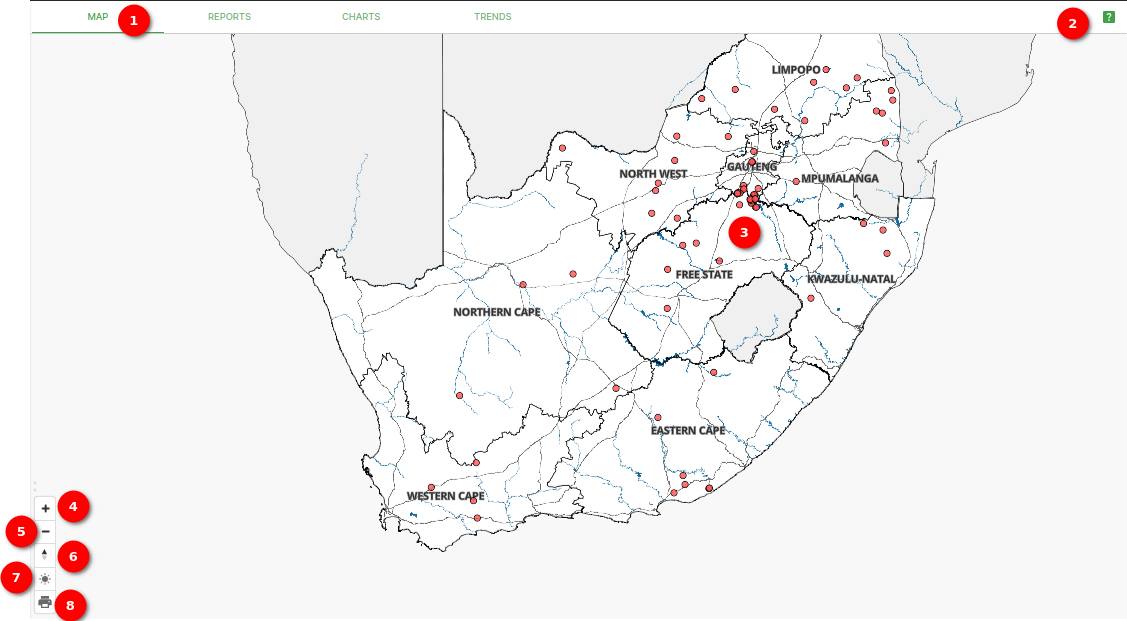
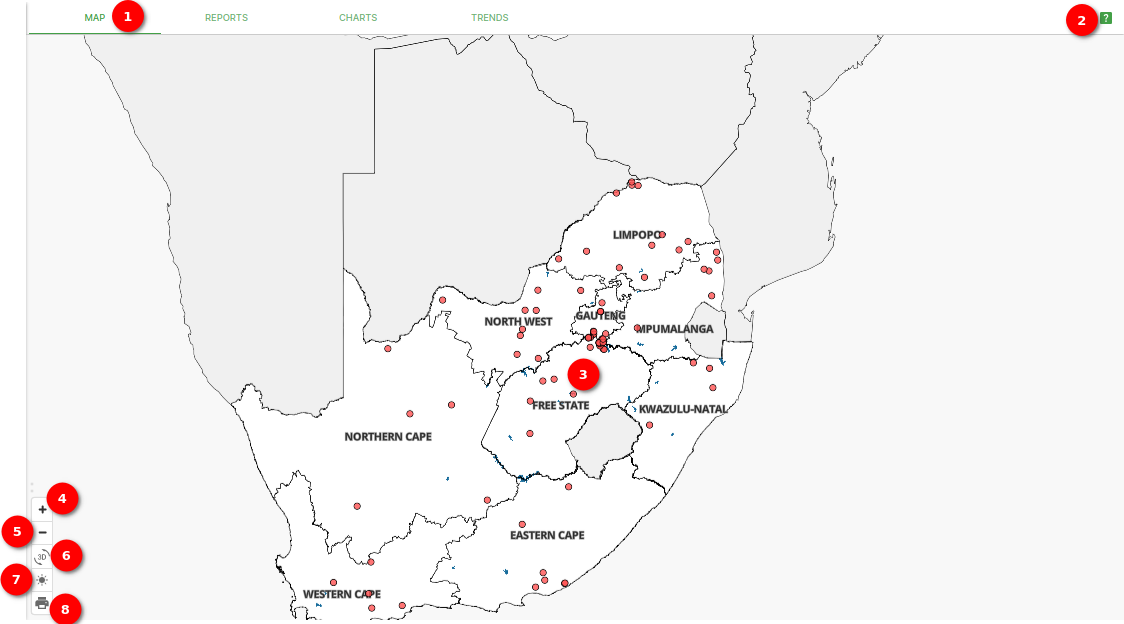
Update Map Documentation

diff --git a/docs/src/user/manual/explore/map.md b/docs/src/user/manual/explore/map.md
@@ -24,6 +24,7 @@ This documentation outlines the functionalities available in the map view, inclu
 1. **Map**: The `Map` tab.
 
 2. **Question Mark Icon**: Click on the `Question Mark Icon` to learn valuable insights into optimising the use of the Map page. Explore the helpful tips and guidelines provided in this sidebar to enhance the efficiency in navigating and utilising the map features. Click on the `visit our Documentation` link to visit the documentation.
+
     ![Side Bar](./img/map-4.png)
 
 3. **Points**: Upon landing on the page, users are greeted with a visual representation of property locations in the form of points, providing an immediate overview of the geographical distribution of properties (unless the user is designated as a data consumer).
@@ -32,7 +33,7 @@ This documentation outlines the functionalities available in the map view, inclu
 
 5. **Zooming Out Icon**: The zooming-out icon is represented by a minus sign (-). Click on this icon to zoom out on the map, reducing the size of the displayed area and providing a broader view.
 
-6.  **Compass Icon**: The `Compass Icon` serves as a visual guide within the map view, enhancing the user's ability to explore a 3D representation of the environment. Represented by a compass symbol, this icon provides users with a quick reference to the cardinal directions, facilitating orientation while navigating the 3D map. The Compass Icon dynamically adjusts its orientation based on the user's movements, consistently pointing toward Geographic North. Users can interact with the icon to reset the map orientation to its default north-facing position.
+6.  **3D Icon**: The `3D Icon` serves as a visual guide within the map view, enhancing the user's ability to explore a 3D representation of the environment. Represented by a 3D symbol, this icon provides users with a quick reference to the cardinal directions, facilitating orientation while navigating the 3D map. The Compass Icon dynamically adjusts its orientation based on the user's movements, consistently pointing toward Geographic North. Users can interact with the icon to reset the map orientation to its default north-facing position.
 
     ![3D view](./img/map-7.png)
 
